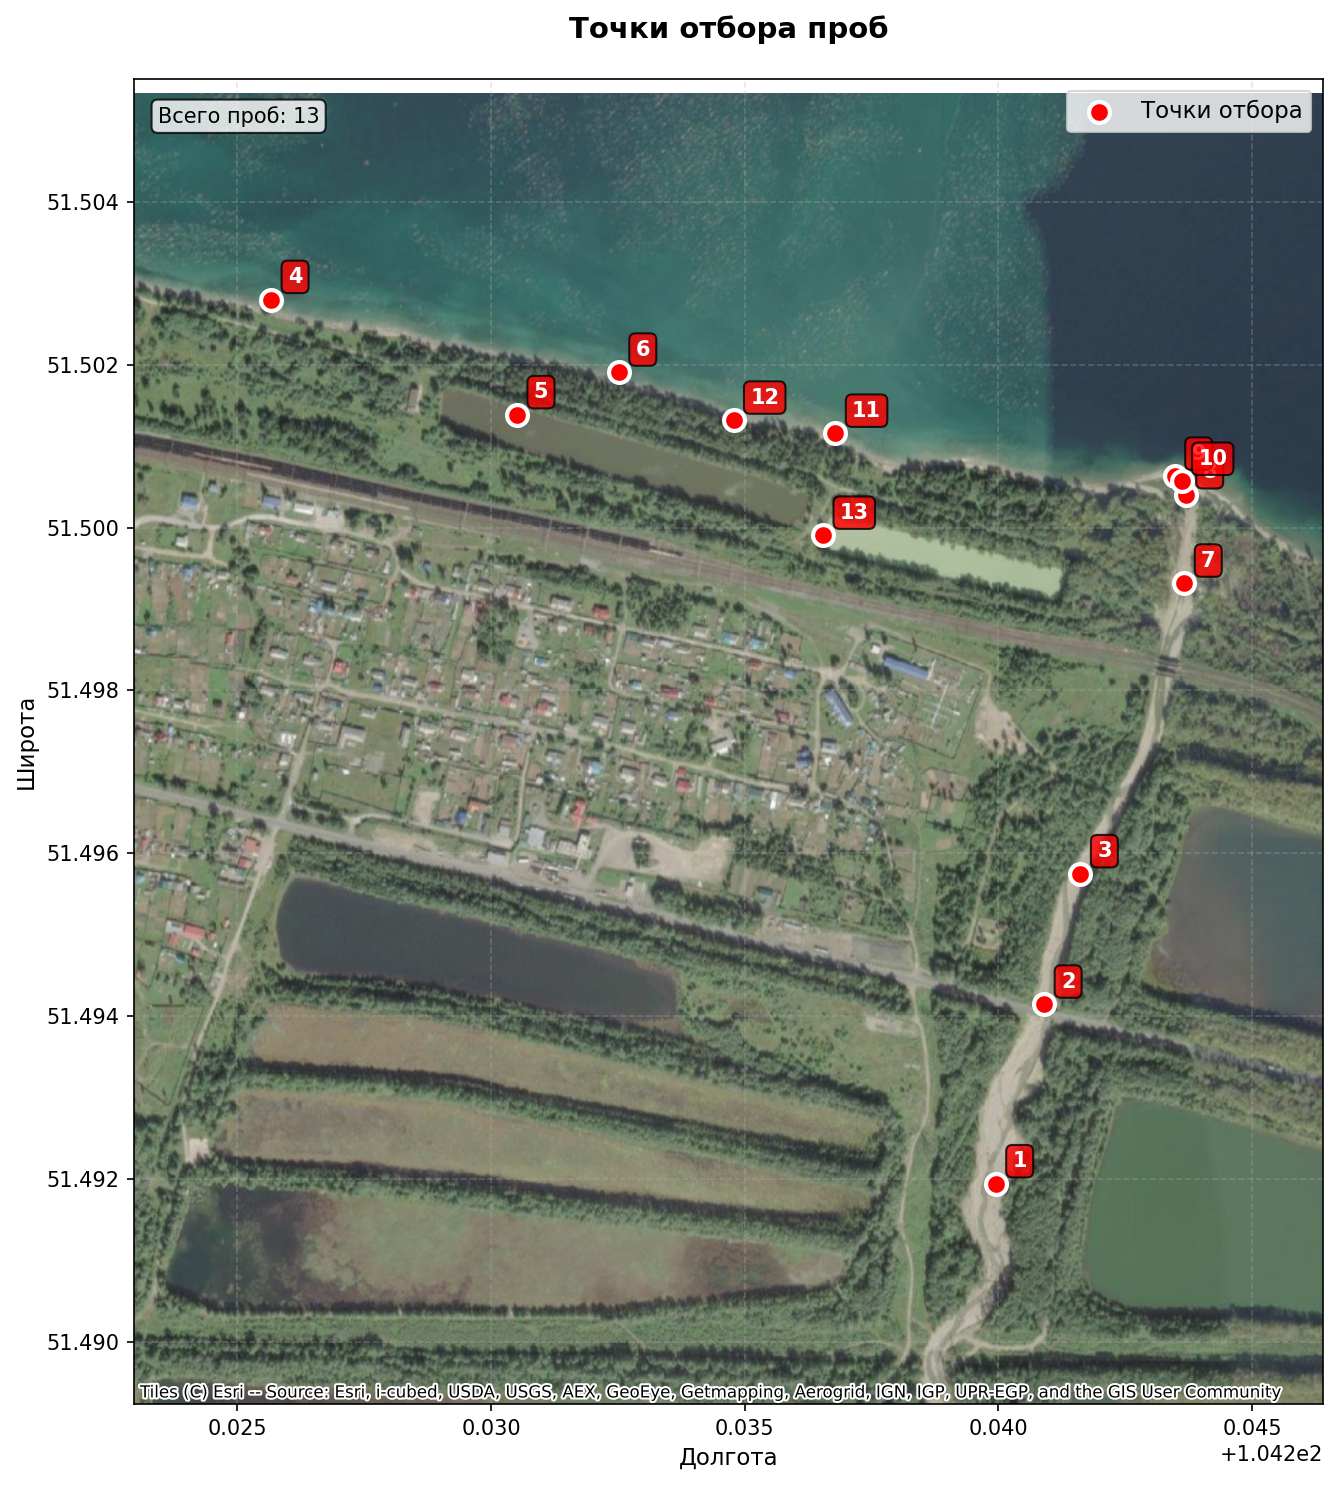
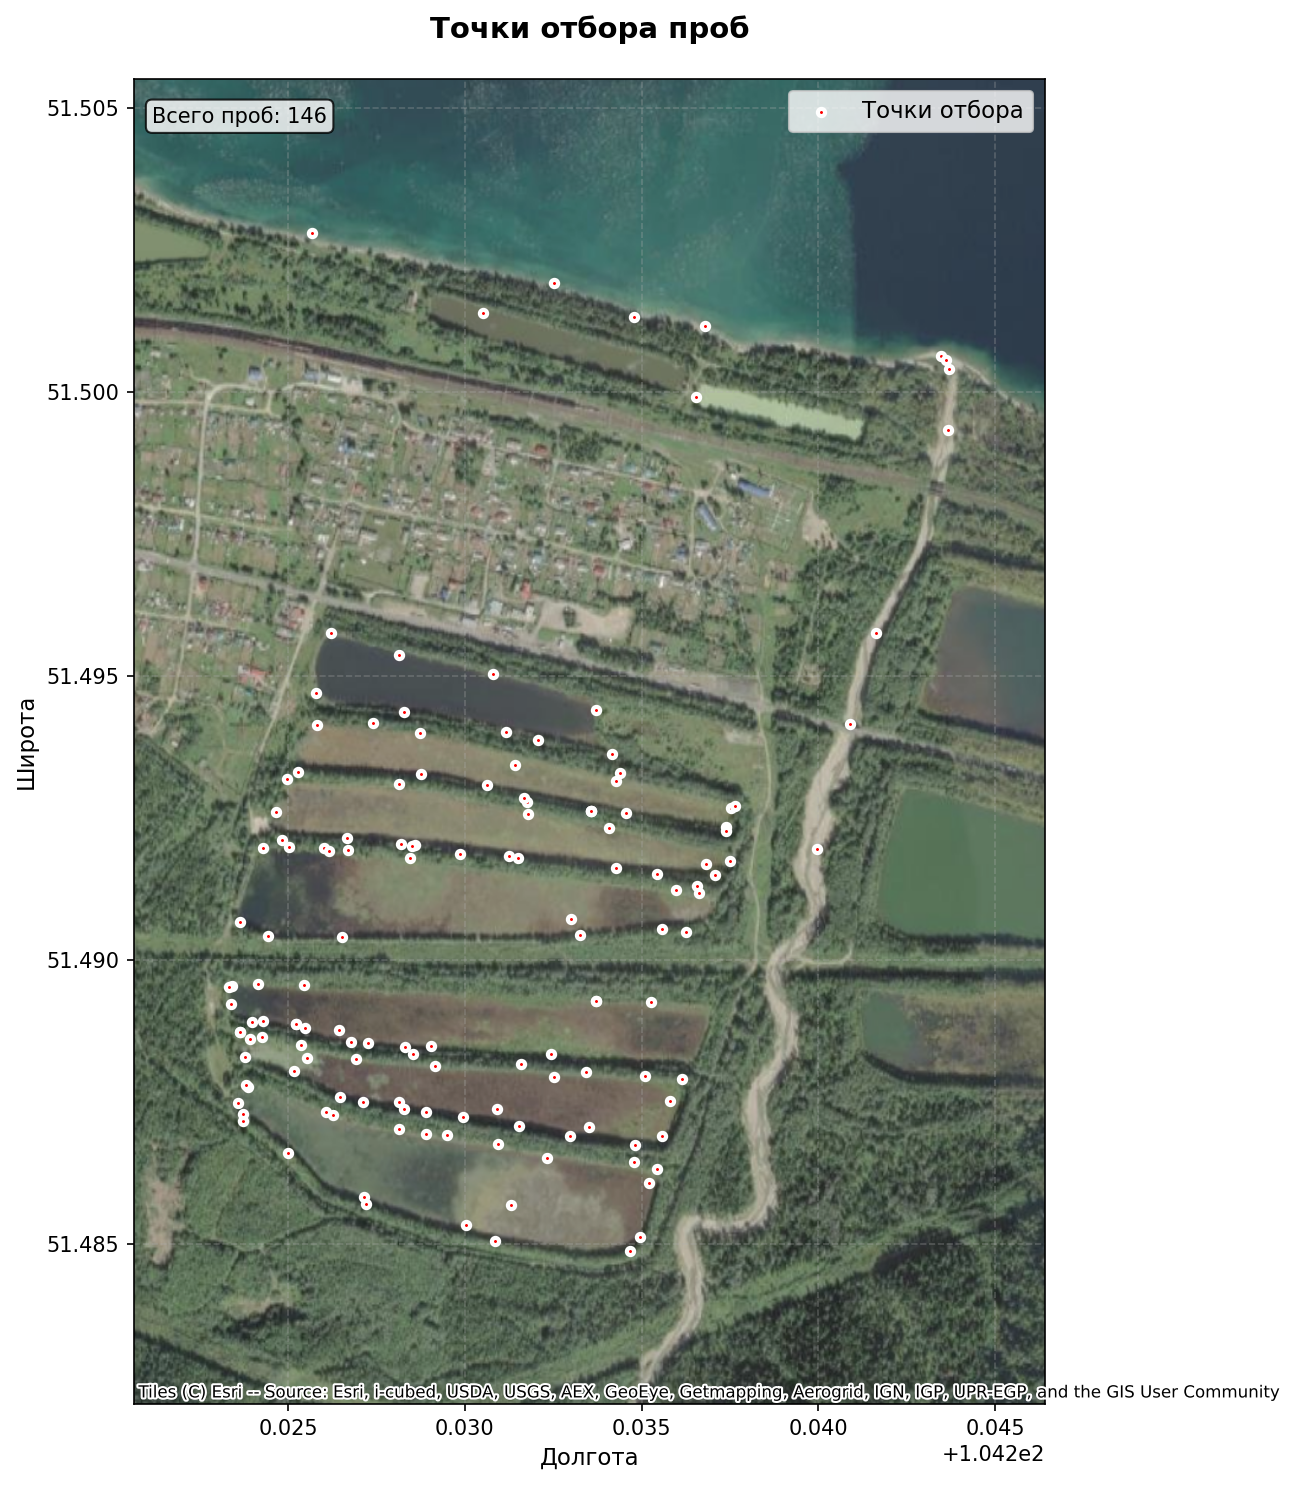
4

diff --git a/Data_processing/scripts/article_water_research_model.py b/Data_processing/scripts/article_water_research_model.py
@@ -18,7 +18,7 @@ from sklearn.svm import OneClassSVM
 project_root = Path.cwd()
 sys.path.insert(0, str(project_root))
 plt.rcParams['axes.titlesize'] = 24
-
+plt.style.use({'axes.grid': False})
 plt.rcParams['xtick.labelsize'] = 24
 plt.rcParams['axes.labelsize'] = 20
 
@@ -324,32 +324,31 @@ def analyze_carbon_sensitivity(MainData, features, feature_to_shift='org_carbon'
     # ==========================================
     # 4. КРАСИВАЯ ВИЗУАЛИЗАЦИЯ
     # ==========================================
-    sns.set_theme(style="whitegrid")
     fig, (ax1, ax2) = plt.subplots(1, 2, figsize=(16, 6))
-    fig.suptitle(f'Анализ чувствительности: Влияние роста {feature_to_shift} на распознавание Байкала', fontsize=16)
+    fig.suptitle(f'Анализ чувствительности: Влияние роста РОУ на распознавание вод Байкала', fontsize=16)
 
     # График 1: Падение Recall (Способность видеть разницу)
     ax1.plot(df_res['Real_Carbon_Value'], df_res['IF_Recall'], label='Isolation Forest', color='#2ca02c', linewidth=2.5)
-    ax1.plot(df_res['Real_Carbon_Value'], df_res['SVM_Recall'], label='One-Class SVM', color='#1f77b4', linewidth=2.5)
+    #ax1.plot(df_res['Real_Carbon_Value'], df_res['SVM_Recall'], label='One-Class SVM', color='#1f77b4', linewidth=2.5)
     
     ax1.axhline(0.5, color='red', linestyle='--', alpha=0.7, label='Случайное угадывание (0.5)')
-    ax1.axvline(mean_sludge, color='grey', linestyle=':', label='Среднее значение шлама')
+    #ax1.axvline(mean_sludge, color='grey', linestyle=':', label='Среднее значение шлама')
     
-    ax1.set_title('Деградация чувствительности (Recall)', fontsize=20)
-    ax1.set_xlabel(f'Абсолютное значение {feature_to_shift} в Байкале', fontsize=20)
+    #ax1.set_title('Деградация чувствительности (Recall)', fontsize=20)
+    ax1.set_xlabel(f'Абсолютное значение РОУ в Байкале', fontsize=20)
     ax1.set_ylabel('Доля распознанных аномалий (Recall)', fontsize=20)
     ax1.set_ylim(-0.05, 1.05)
     ax1.legend(loc='lower left')
 
     # График 2: Приближение к границе нормы (Decision Function)
     ax2.plot(df_res['Real_Carbon_Value'], df_res['IF_Distance'], label='Isolation Forest Dist.', color='#2ca02c', linestyle='-.', linewidth=2)
-    ax2.plot(df_res['Real_Carbon_Value'], df_res['SVM_Distance'], label='One-Class SVM Dist.', color='#1f77b4', linestyle='-.', linewidth=2)
+    #ax2.plot(df_res['Real_Carbon_Value'], df_res['SVM_Distance'], label='One-Class SVM Dist.', color='#1f77b4', linestyle='-.', linewidth=2)
     
     ax2.axhline(0, color='black', linestyle='-', alpha=0.8, label='Граница нормы (0.0)')
-    ax2.axvline(mean_sludge, color='grey', linestyle=':', label='Среднее значение шлама')
+    #ax2.axvline(mean_sludge, color='grey', linestyle=':', label='Среднее значение шлама')
     
     ax2.set_title('Приближение к эталонной сигнатуре', fontsize=16)
-    ax2.set_xlabel(f'Абсолютное значение {feature_to_shift} в Байкале', fontsize=20)
+    ax2.set_xlabel(f'Абсолютное значение РОУ в Байкале, мг/л', fontsize=20)
     ax2.set_ylabel('Оценка "нормальности" (<0 = аномалия, >0 = шлам)', fontsize=20)
     ax2.legend(loc='upper left')
 

diff --git a/Data_processing/scripts/map_visual.py b/Data_processing/scripts/map_visual.py
@@ -198,26 +198,26 @@ def create_satellite_map_simple(df, lat_col='latitude', lon_col='longitude',
         ax=ax,
         color='red',
         marker='o',
-        markersize=100,
+        markersize=12,
         edgecolor='white',
         linewidth=2,
         zorder=5,
         label='Точки отбора'
     )
-    
+    """
     # Добавляем подписи
     for idx, row in gdf.iterrows():
         ax.annotate(
             f"{idx+1}",
             xy=(row.geometry.x, row.geometry.y),
-            xytext=(8, 8),
+            xytext=(3, 3),
             textcoords='offset points',
-            fontsize=10,
+            fontsize=6,
             color='white',
             weight='bold',
             bbox=dict(boxstyle='round,pad=0.3', facecolor='red', alpha=0.8)
         )
-    
+    """
     # Выбираем источник подложки
     if use_satellite:
         source = ctx.providers.Esri.WorldImagery  # Спутник
@@ -264,8 +264,12 @@ def create_satellite_map_simple(df, lat_col='latitude', lon_col='longitude',
 if __name__ == "__main__":
     # Создаем пример данных
     df = pd.read_excel(r"D:\lab\KNP-analysis\Initial_data\Additional_data\GeoData.xlsx")
-    df['Class'] = df.Sample.apply(lambda x: ut.extract_class_from_name(x))
-    df = df[df['Class'] == 'Baikal']
+    df['Class'] = df.Sample.apply(lambda x: ut.extract_subclass_from_name(x))
+    df = df[df['Class'] != "Storage 8"]
+    df = df[df['Class'] != "Storage 9"]
+    df = df[df['Class'] != "Storage 10"]
+    
+    #df = df[df['Class'] == 'Baikal']
     df = df[df['latitude'] < 51.6]
     df = df[df['latitude'] != 51.496572]
     df.reset_index(inplace=True)
